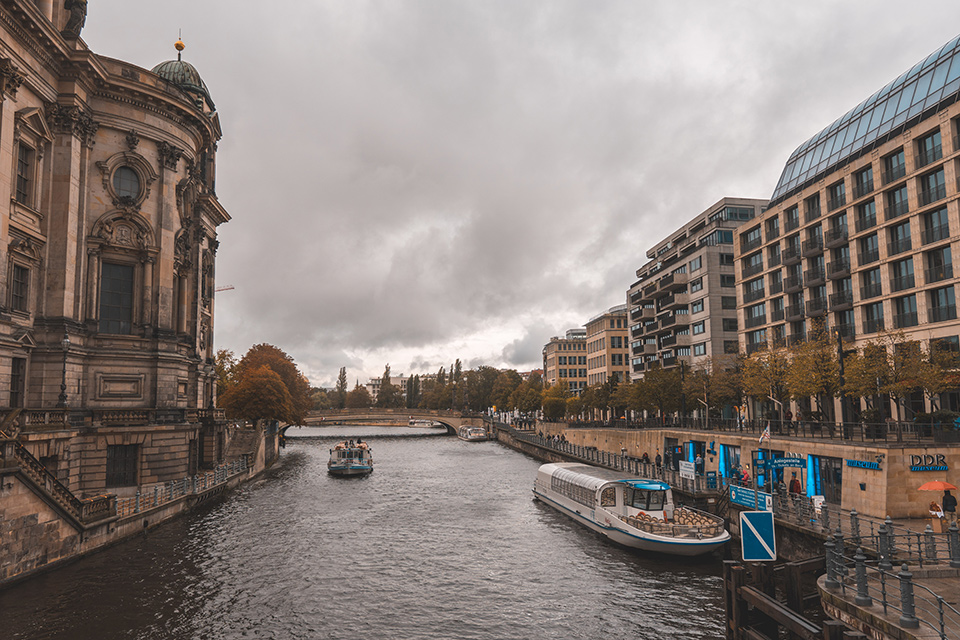
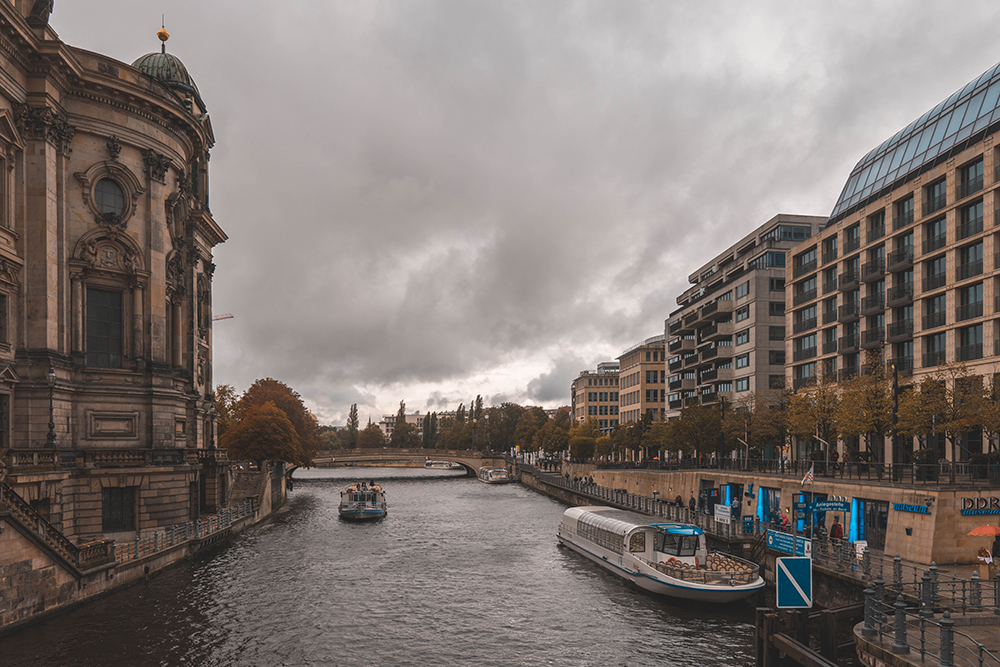
New images and text

diff --git a/index.html b/index.html
@@ -54,7 +54,7 @@
                 <div class="da-container">
                     <h2>Video</h2>
                     <p>
-                        Recorded in Berlin.
+                        This video is a short compilation of my prolonged weekend in Berlin.
                     </p>
                     <br/>
                     <div class="videoWrapper">
@@ -66,7 +66,7 @@
                 <div class="da-container">
                     <h2>Photos</h2>
                     <p>
-                        Diese Bilder wurden in Berlin aufgenommen.
+                        These pictures were all taken during my trip to Berlin. I did some colour grading and, if necessary, minor manipulations with Photoshop.
                     </p>
                     <br/>
                 </div>
